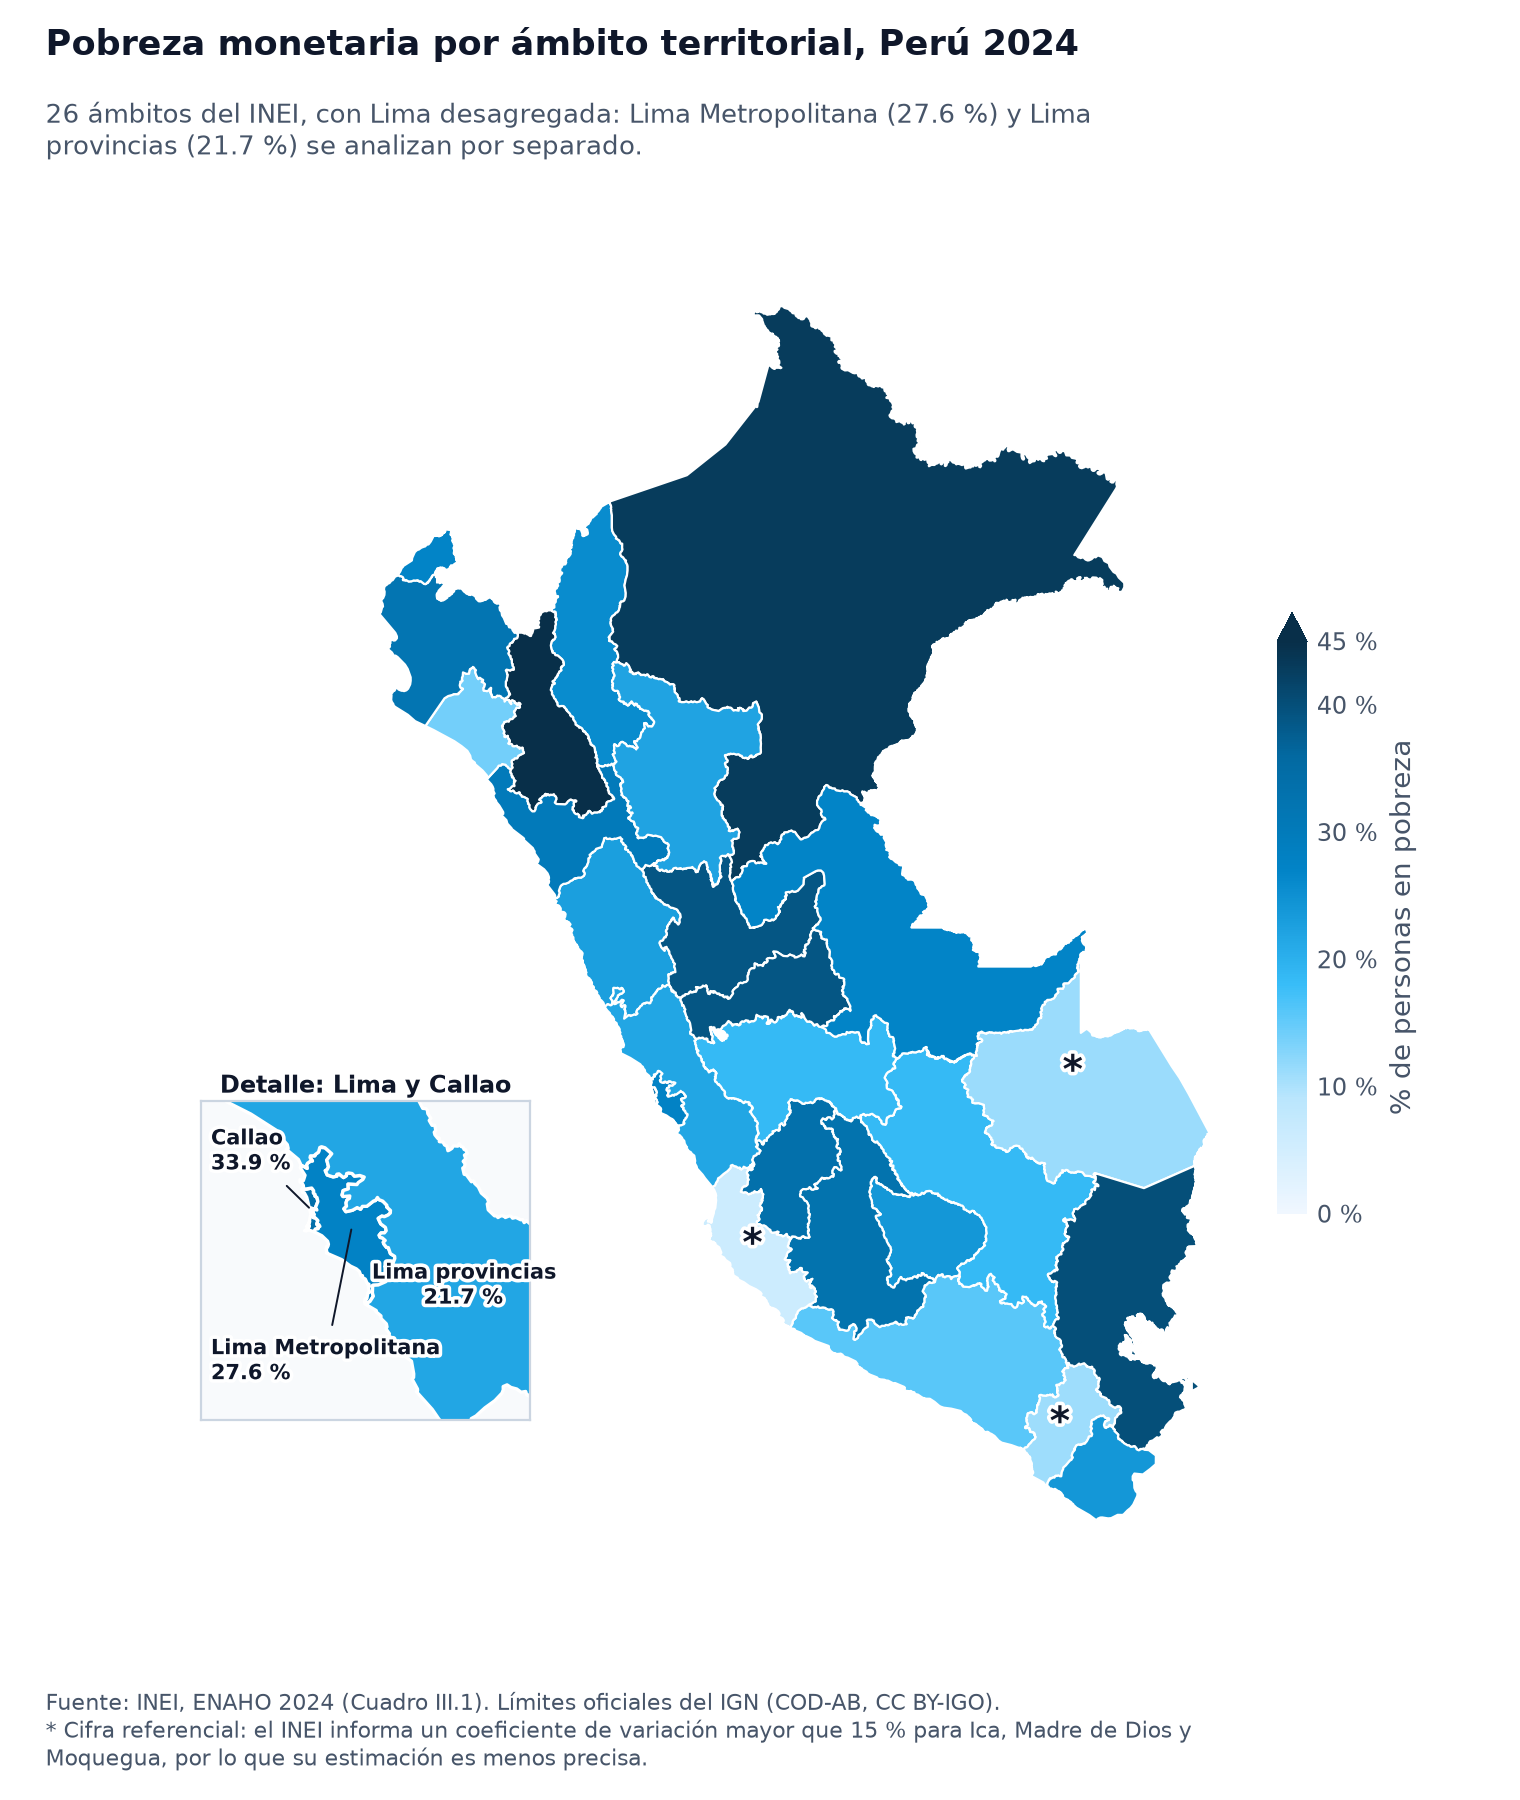
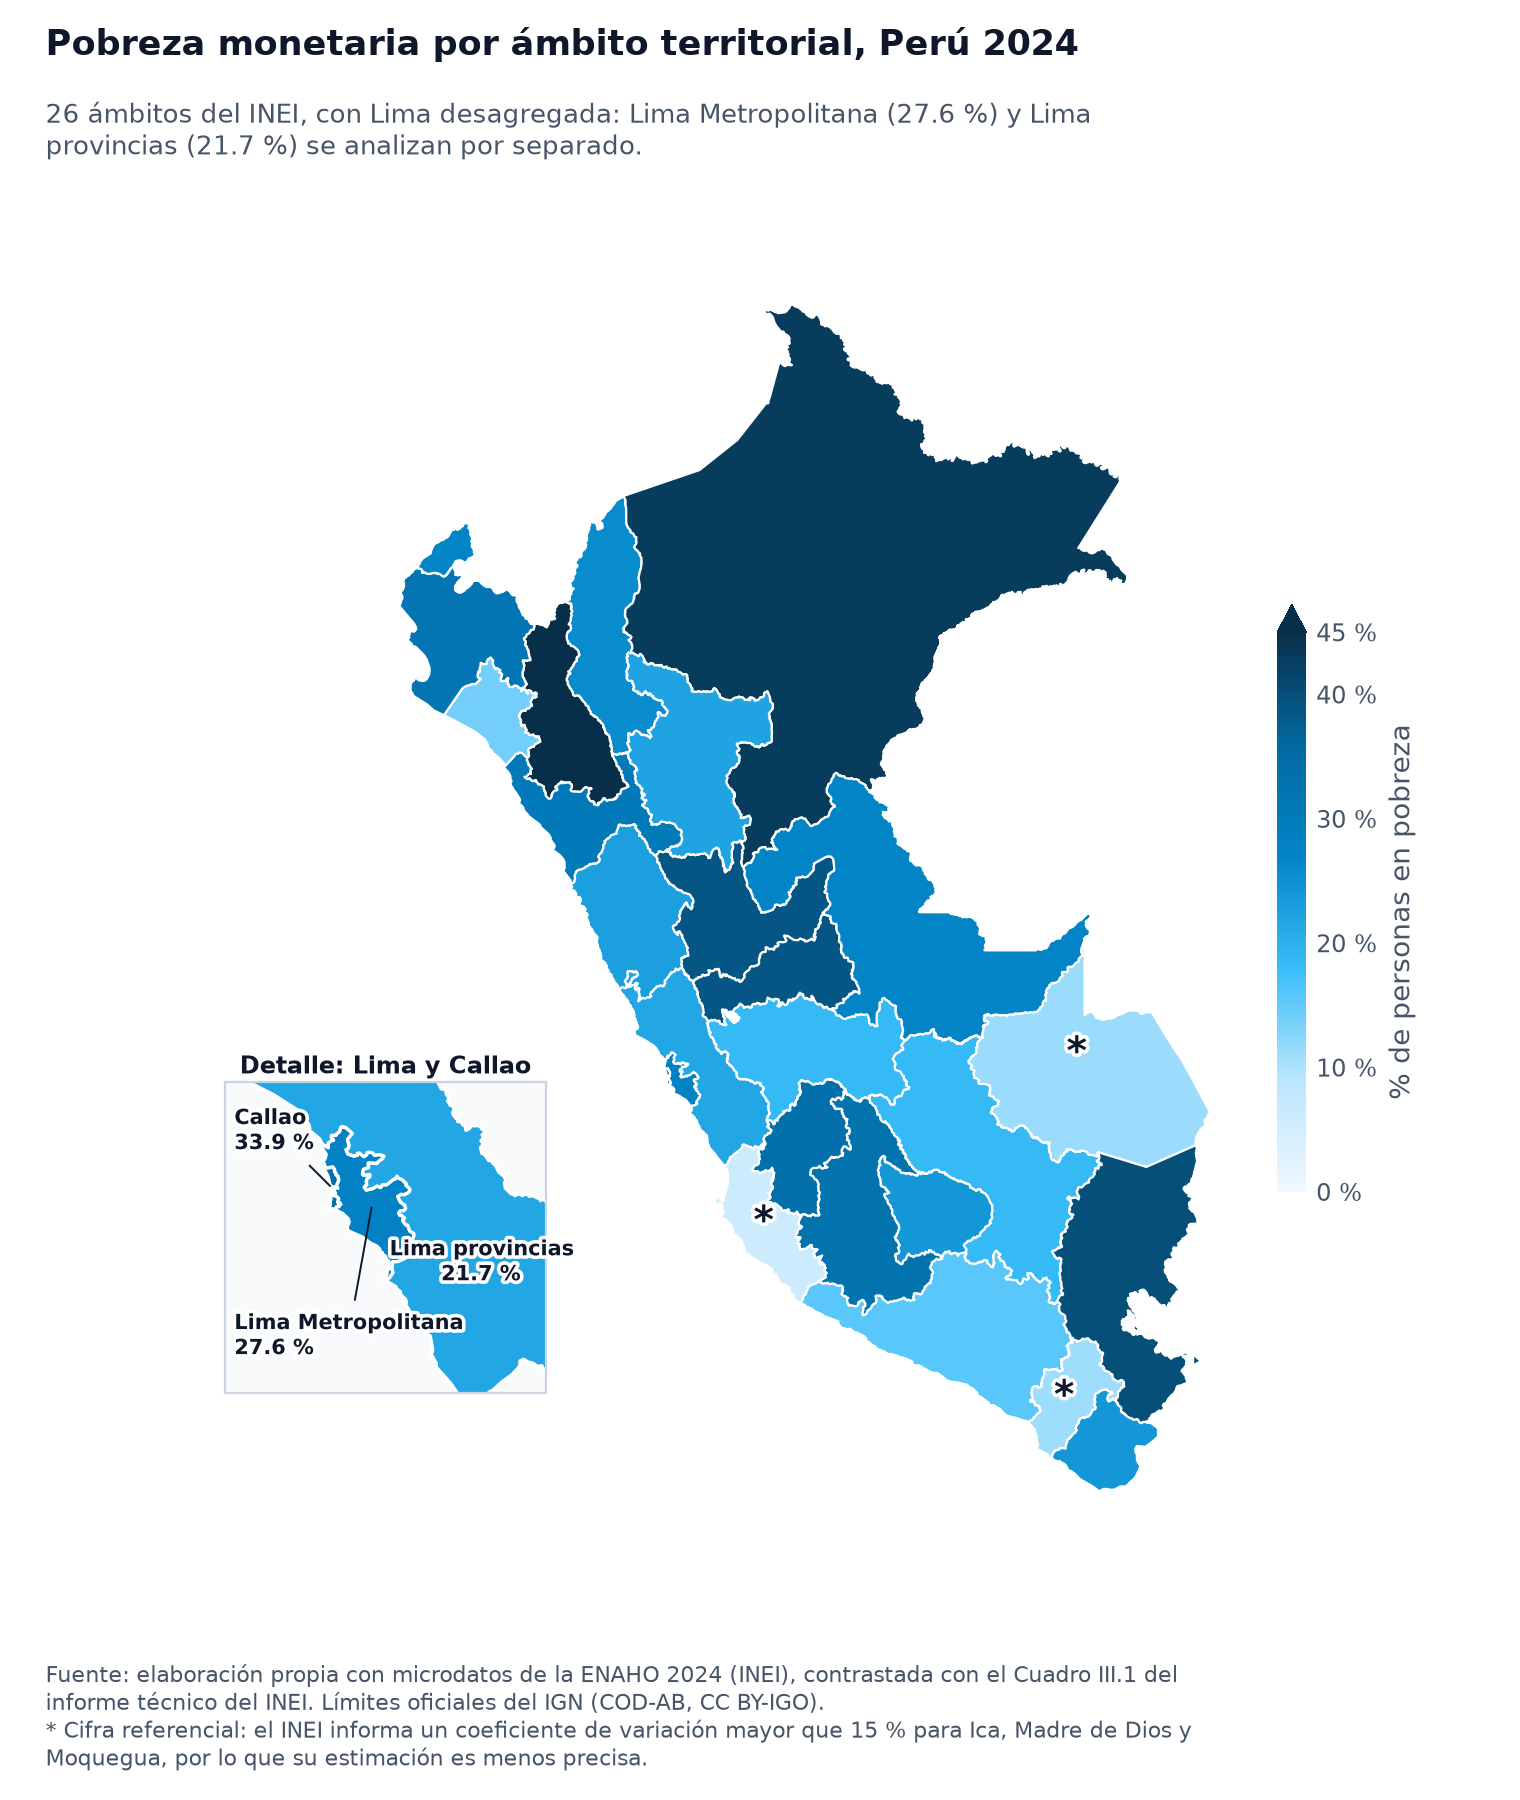
fuentes: atribución exacta en los mapas y en la cita de los límites del IGN
La verificación final encontró tres atribuciones imprecisas. El pie de los
mapas citaba el Cuadro III.1 para valores que se calculan con los
microdatos; ahora dice que son elaboración propia contrastada con ese
cuadro. La cita del IGN en referencias/README.md difería de la del informe y
afirmaba que la simplificación conserva las fronteras, cuando simplifica
cada polígono por separado. comparacion.md decía que el 25.7 % de la v1 no
se había verificado: en el Gráfico 4.7 corresponde a Amazonas.

diff --git a/.claude/skills/mapeando-enaho/scripts/mapear.py b/.claude/skills/mapeando-enaho/scripts/mapear.py
@@ -244,7 +244,8 @@ def dibujar_ambitos(mapa: gpd.GeoDataFrame) -> None:
     titulo = "Pobreza monetaria por ámbito territorial, Perú 2024"
     subtitulo = (f"26 ámbitos del INEI, con Lima desagregada: {LIMA_METROPOLITANA} ({metro_p:.1f} %) y "
                  f"{LIMA_PROVINCIAS} ({provs_p:.1f} %) se analizan por separado.")
-    fuente = "Fuente: INEI, ENAHO 2024 (Cuadro III.1). Límites oficiales del IGN (COD-AB, CC BY-IGO)."
+    fuente = ("Fuente: elaboración propia con microdatos de la ENAHO 2024 (INEI), contrastada con el Cuadro III.1 del informe "
+              "técnico del INEI. Límites oficiales del IGN (COD-AB, CC BY-IGO).")
     if marcados:
         fuente += "\n" + nota_referenciales([n for _, n in marcados])
     estilo_graficos.encabezado(figura, eje, titulo=titulo, subtitulo=subtitulo, fuente=fuente)

diff --git a/referencias/README.md b/referencias/README.md
@@ -52,7 +52,7 @@ Para la representación espacial de la pobreza departamental y por ámbitos terr
 ### Fuente primaria y licencia
 
 **Cita en formato APA 7:**
-> Instituto Geográfico Nacional & Oficina de las Naciones Unidas para la Coordinación de Asuntos Humanitarios. (2020). *Peru: Subnational Administrative Boundaries (COD-AB)* [Conjunto de datos]. Humanitarian Data Exchange. Licencia CC BY-IGO. https://data.humdata.org/dataset/cod-ab-per
+> Instituto Geográfico Nacional. (2020). *Peru - Subnational administrative boundaries* (Versión v01) [Conjunto de datos]. OCHA Field Information Services Section; Humanitarian Data Exchange. Recuperado el 5 de noviembre de 2026, de https://data.humdata.org/dataset/cod-ab-per
 
 - **Publicación:** 14 de julio de 2020 (versión validada COD-AB).
 - **URL del conjunto de datos:** `https://data.humdata.org/dataset/cod-ab-per`
@@ -62,7 +62,7 @@ Para la representación espacial de la pobreza departamental y por ámbitos terr
 
 ### Capas procesadas en `referencias/`
 
-El script `scripts/preparar_limites.py` procesa los límites oficiales en proyección EPSG:4326 y simplifica la topología conservando la integridad de fronteras e islas:
+El script `scripts/preparar_limites.py` procesa los límites oficiales en proyección EPSG:4326 y simplifica cada polígono por separado, así que las fronteras compartidas no coinciden exactamente; el proyecto solo usa estas capas para dibujar los mapas, no para medir áreas:
 
 1. **`referencias/limites_departamentales_ign.geojson` (25 unidades):**
    - Corresponde a los 24 departamentos y la Provincia Constitucional del Callao.

diff --git a/evaluacion/comparacion.md b/evaluacion/comparacion.md
@@ -101,7 +101,7 @@ La marca automática `lenguaje_causal` de `metricas.md` no sirve para calificar.
 - **El Modo A refleja, sobre todo, el aislamiento.** Recibió en las dos versiones la misma carpeta y las mismas herramientas (función `preparar` de `evaluar.py`). Lo que cambió para él es que ya no carga la configuración global del usuario.
 - **El costo bajó en los dos modos.** En el Modo A, el costo bajó 77 % y el tiempo, 40 %; en el Modo B, 75 % y 15 %. La caída es coherente con menos contexto en cada sesión, pero los CSV no registran tokens, así que no está medida.
 - **Lo que cambió en las respuestas** fue e3 en A, por la búsqueda web, y la interpretación de m1 en B, que dejó de afirmar una causa. Con una corrida no se puede saber si esto último se debe al aislamiento o a la variación entre corridas.
-- **El 25.7 % de la v1 en m2.** El Modo A de la v1 lo atribuyó al Gráfico 4.7 del informe del INEI, y [`v1/comparacion.md`](v1/comparacion.md) lo presentó como la cifra de los 43 distritos de Lima. No coincide con el 27.6 % que el Cuadro III.1 (p. 220) publica para ese ámbito. El Gráfico 4.7 no se verificó aquí.
+- **El 25.7 % de la v1 en m2.** El Modo A de la v1 lo atribuyó al Gráfico 4.7 del informe del INEI, y [`v1/comparacion.md`](v1/comparacion.md) lo presentó como la cifra de los 43 distritos de Lima. No coincide con el 27.6 % que el Cuadro III.1 (p. 220) publica para ese ámbito. En el Gráfico 4.7 (p. 72), el 25.7 % corresponde a Amazonas; Lima Metropolitana figura con 27.6 %.
 
 ## Conclusión
 
